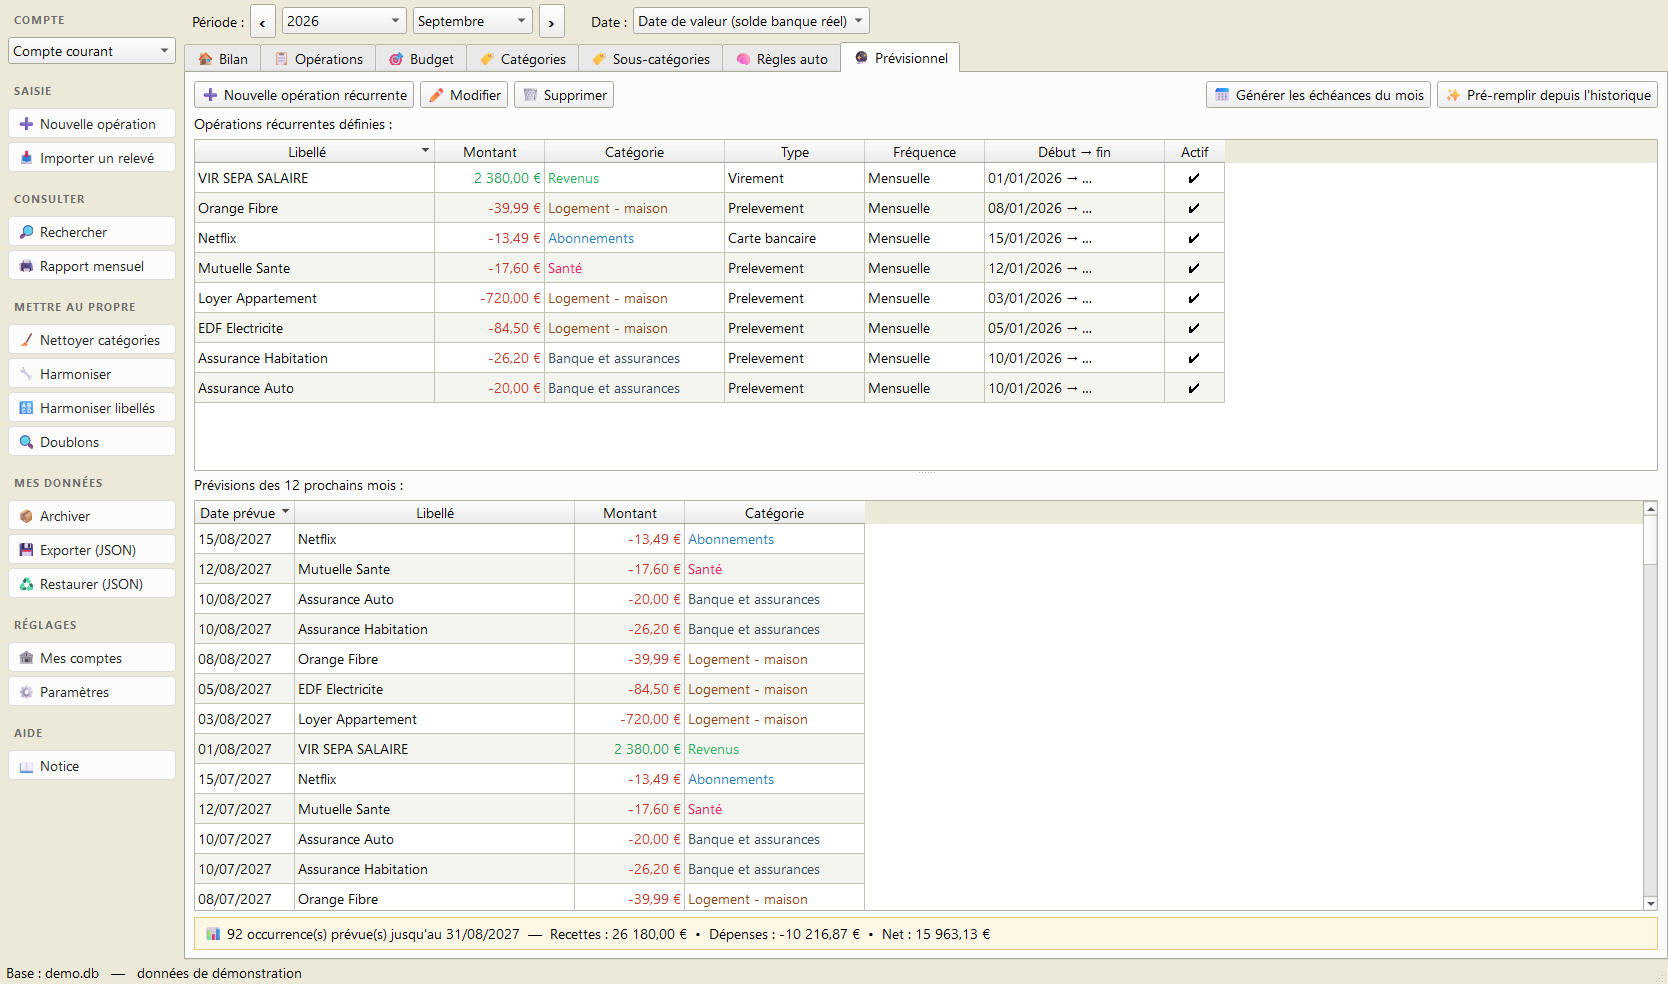
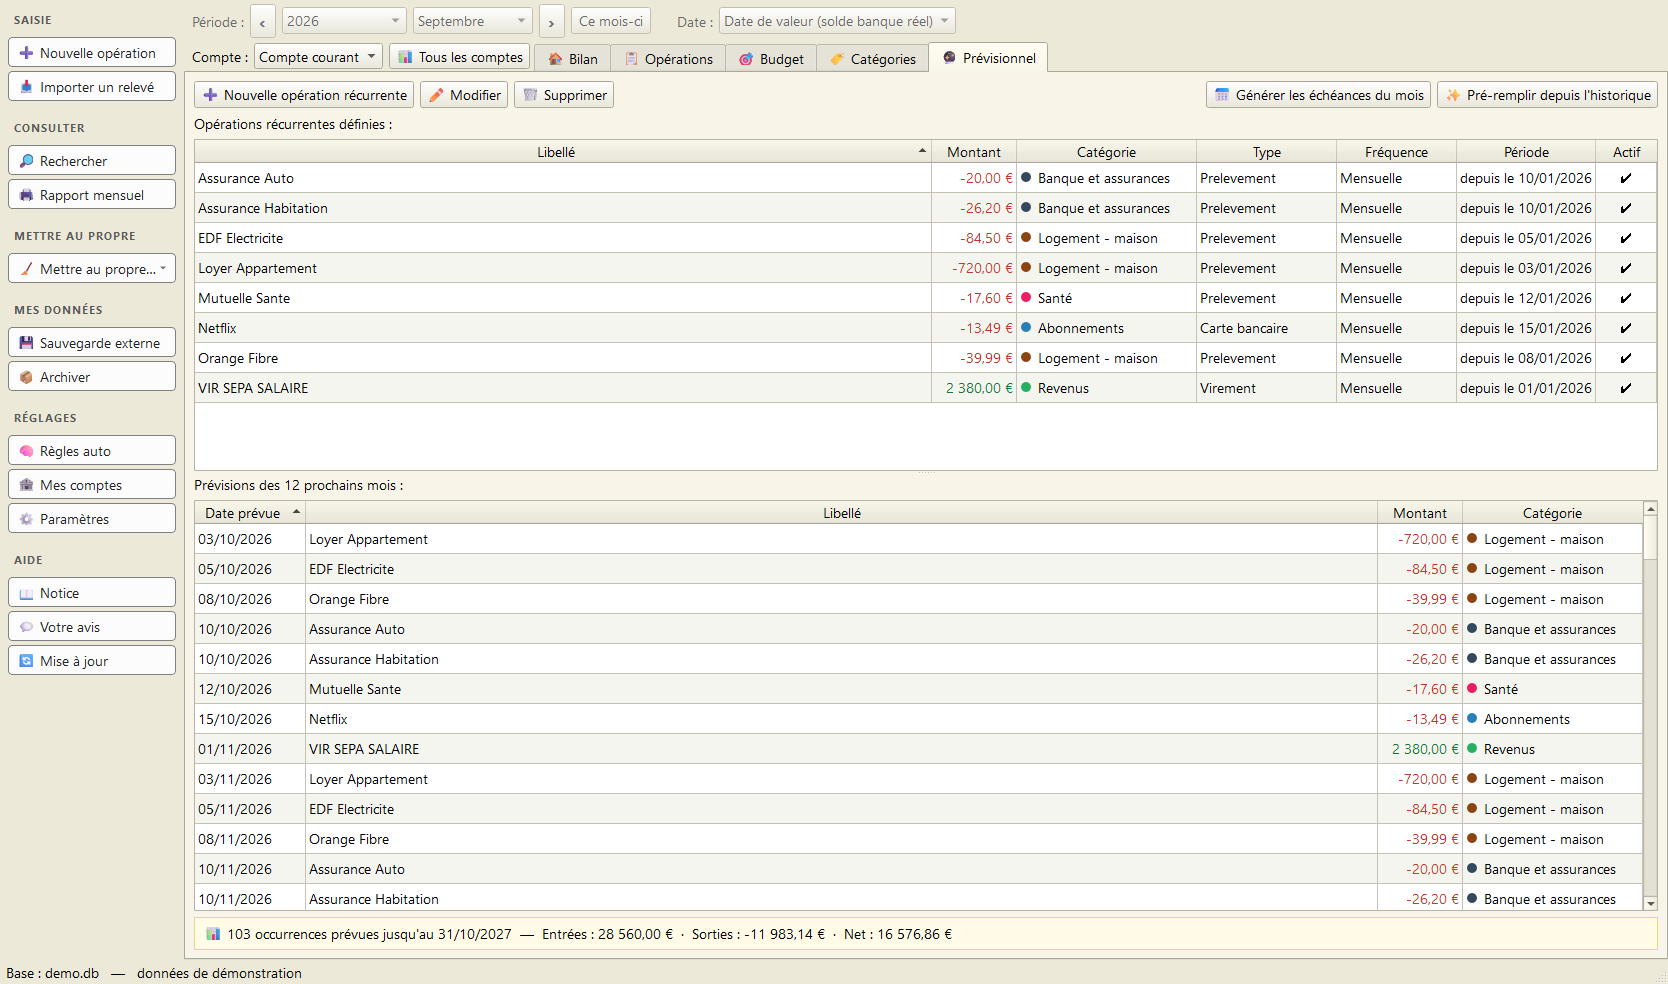
Captures du site refaites pour la 1.41.2
En premiere quinzaine, la vitrine montre le mois precedent, complet
(le 02/10, budgets a 0 %). Bilan plus haut (1200 px) pour ses listes
du bas. Le script detruit les widgets remis a plus tard : des pastilles
d'un Bilan redessine restaient en coin de liste (photos seulement).

diff --git a/outils/captures_promo.py b/outils/captures_promo.py
@@ -11,7 +11,9 @@ Lancement (depuis n'importe où) :
     python outils/captures_promo.py mon_dossier  → écrit ailleurs, pour voir
 
 Les données sont tirées avec une graine fixe : deux exécutions le même jour
-donnent les mêmes images. Le mois affiché est toujours le mois en cours.
+donnent les mêmes images. Le mois affiché est le mois en cours, sauf en
+première quinzaine : le mois en cours est alors presque vide (budgets à 0 %),
+et la vitrine montre le mois précédent, complet.
 """
 import os
 import random
@@ -27,7 +29,7 @@ from datetime import date
 RACINE = os.path.dirname(os.path.dirname(os.path.abspath(__file__)))
 sys.path.insert(0, RACINE)
 
-from PySide6.QtCore import Qt                             # noqa: E402
+from PySide6.QtCore import QEvent, Qt                     # noqa: E402
 from PySide6.QtWidgets import QApplication                # noqa: E402
 
 from comptesbudget.app import (                           # noqa: E402
@@ -46,7 +48,9 @@ LARGEUR = 1668
 # ont un contenu court : leur donner la même hauteur ne ferait qu'agrandir le
 # vide sous leur tableau. On leur laisse donc la hauteur MINIMALE de la
 # fenêtre (984 px), sous laquelle Qt refuse de descendre.
-HAUTEUR_BILAN = 1080
+# 1200 depuis le 02/10/2026 : avec le bandeau « Budget dépassé », les trois
+# listes du bas (dépenses, revenus, plus grosses dépenses) étaient coupées.
+HAUTEUR_BILAN = 1200
 HAUTEUR_AUTRES = 984
 GRAINE = 20260809                     # captures reproductibles
 
@@ -200,6 +204,10 @@ def _laisser_dessiner(app, secondes):
     fin = time.time() + secondes
     while time.time() < fin:
         app.processEvents()
+        # processEvents() ne détruit pas les widgets remis à plus tard
+        # (deleteLater) ; la vraie boucle de l'appli, si. Sans cette ligne,
+        # les pastilles d'un Bilan redessiné restaient en coin de liste.
+        app.sendPostedEvents(None, QEvent.DeferredDelete)
         time.sleep(0.02)
 
 
@@ -220,6 +228,14 @@ def photographier(db, dossier):
     w = MainWindow(db)
     w.resize(LARGEUR, HAUTEUR_BILAN)
     w.statusBar().showMessage("Base : demo.db   —   données de démonstration")
+    # En première quinzaine, le mois en cours n'a presque rien : on montre
+    # le mois précédent, complet (vitrine du 02/10/2026 aux budgets vides).
+    # Choisi avant show() : changé après, le Bilan gardait des restes du
+    # premier dessin (textes superposés).
+    # Pas en janvier : les données inventées commencent au 1er janvier.
+    if AUJOURDHUI.day < 15 and AUJOURDHUI.month > 1:
+        w.period_bar.choisir_periode(
+            f"{AUJOURDHUI.year}-{AUJOURDHUI.month - 1:02d}")
     # Rendue sans apparaître à l'écran : show() ouvrait une vraie fenêtre
     # pendant qu'on travaille (charte, section 7).
     w.setAttribute(Qt.WA_DontShowOnScreen, True)
